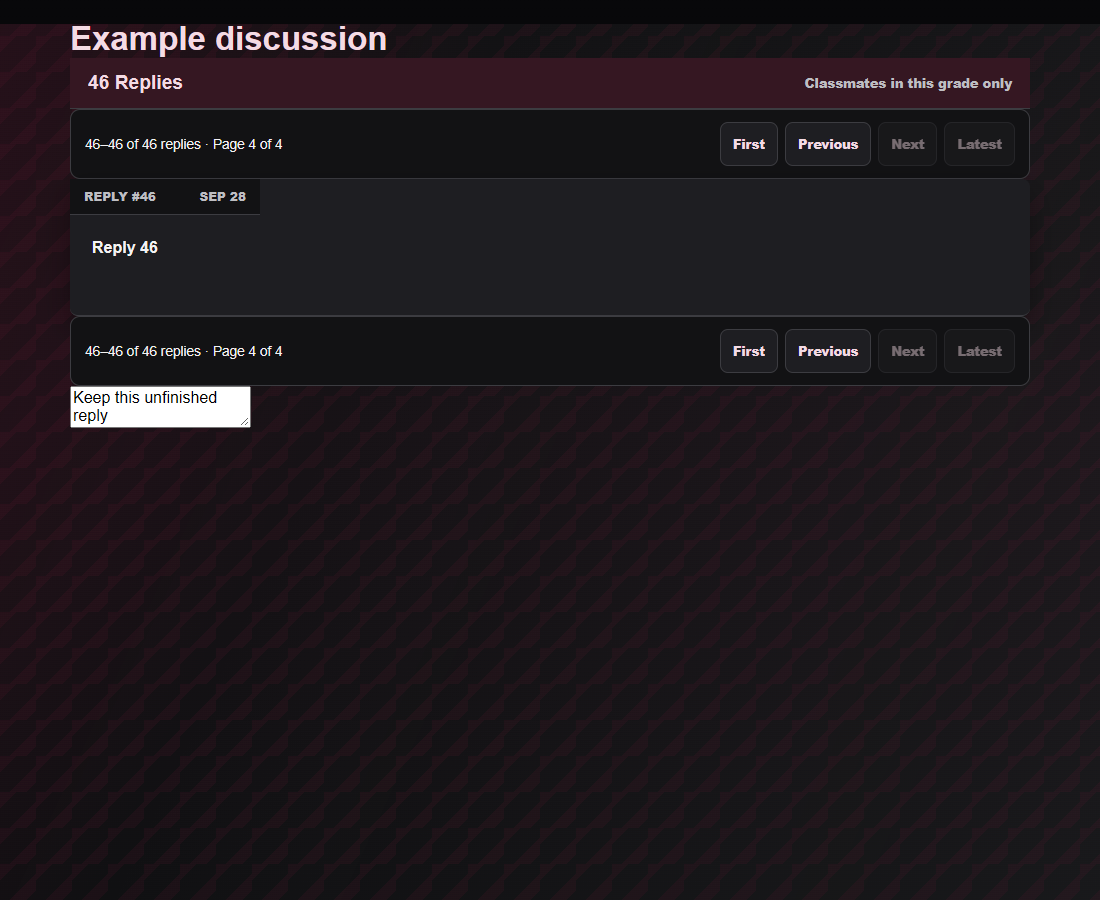
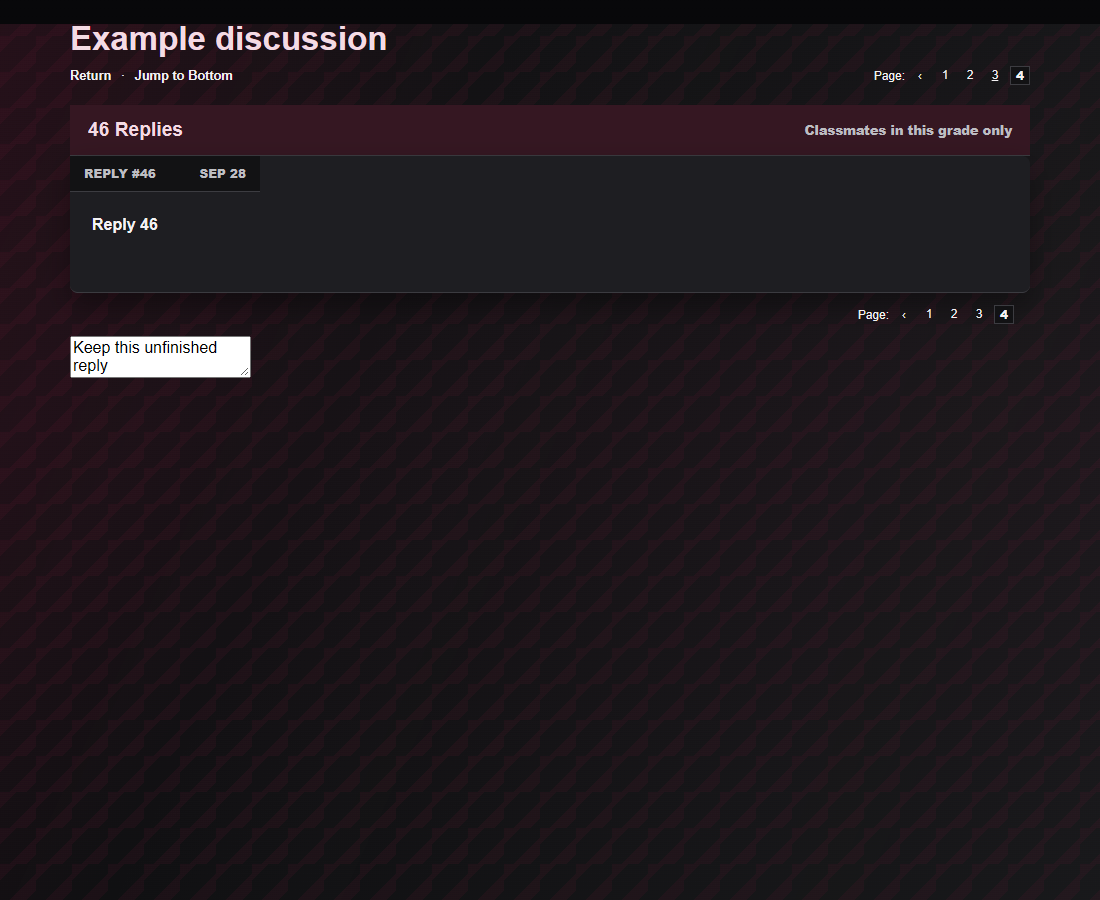
Make thread pagination compact and reposition top controls

diff --git a/app.js b/app.js
@@ -3158,10 +3158,22 @@ function threadReplyPageData(thread) {
   return { replies, pages, page, start, visible: replies.slice(start, start + THREAD_REPLIES_PER_PAGE) };
 }
 
+function renderThreadReplyPager(thread, location) {
+  const { pages, page } = threadReplyPageData(thread);
+  if (pages <= 1) return "";
+  const numbers = [...new Set([1, pages, ...Array.from({ length: 5 }, (_, i) => page - 2 + i).filter(n => n > 0 && n <= pages)])].sort((a, b) => a - b);
+  const button = (target, label, content) => `<button type="button" data-action="threadReplyPage" data-thread-id="${escapeHtml(thread.id)}" data-page="${target}" aria-label="${label}"${target === page ? ' aria-current="page"' : ""}>${content}</button>`;
+  return `<nav class="thread-reply-pages" aria-label="Reply pages ${location}"><span>Page:</span>${page > 1 ? button(page - 1, "Previous page", "‹") : ""}${numbers.map((n, i) => `${i && n > numbers[i - 1] + 1 ? '<span aria-hidden="true">…</span>' : ""}${button(n, `Page ${n}`, n)}`).join("")}${page < pages ? button(page + 1, "Next page", "›") : ""}</nav>`;
+}
+
+function refreshThreadReplyTopPager(thread) {
+  const top = document.querySelector(".thread-top-pages");
+  if (top) top.innerHTML = renderThreadReplyPager(thread, "top");
+}
+
 function renderThreadReplyList(thread) {
   const { replies, pages, page, start, visible } = threadReplyPageData(thread);
-  const pager = location => pages > 1 ? `<nav class="thread-reply-pages" aria-label="Reply pages ${location}"><span role="status">${start + 1}–${start + visible.length} of ${replies.length} replies · Page ${page} of ${pages}</span><div>${[[1,"First"],[page-1,"Previous"],[page+1,"Next"],[pages,"Latest"]].map(([target,label]) => `<button type="button" class="outline-btn" data-action="threadReplyPage" data-thread-id="${escapeHtml(thread.id)}" data-page="${target}" ${(label === "First" || label === "Previous" ? page === 1 : page === pages) ? "disabled" : ""}>${label}</button>`).join("")}</div></nav>` : "";
-  return `<div class="forum-reply-heading" tabindex="-1"><h3>${escapeHtml(`${replies.length} ${replies.length === 1 ? "Reply" : "Replies"}`)}</h3><span>Classmates in this grade only</span></div>${pager("top")}${visible.length ? visible.map((reply,index)=>renderThreadReply(reply,start+index+1)).join("") : emptyCard("No replies yet. Ask the first question or add a helpful response.")}${pager("bottom")}`;
+  return `<div class="forum-reply-heading" tabindex="-1"><h3>${escapeHtml(`${replies.length} ${replies.length === 1 ? "Reply" : "Replies"}`)}</h3><span>Classmates in this grade only</span></div>${visible.length ? visible.map((reply,index)=>renderThreadReply(reply,start+index+1)).join("") : emptyCard("No replies yet. Ask the first question or add a helpful response.")}${renderThreadReplyPager(thread, "bottom")}`;
 }
 
 function renderThreadDetail(threadId) {
@@ -3181,9 +3193,9 @@ function renderThreadDetail(threadId) {
   const replies = getThreadReplies(thread);
   return `
     ${pageHeader("Colt Corner", "", true)}
-    <nav class="thread-quick-links" aria-label="Thread navigation">
+    <div class="thread-navigation-row"><nav class="thread-quick-links" aria-label="Thread navigation">
       <button type="button" data-action="back">Return</button><span aria-hidden="true">·</span><button type="button" data-action="threadJumpBottom">Jump to Bottom</button>
-    </nav>
+    </nav><div class="thread-top-pages">${renderThreadReplyPager(thread, "top")}</div></div>
     <section class="thread-detail-card forum-thread-view">
       <div class="forum-thread-titlebar">
         <span>Grade ${escapeHtml(coltCornerAudienceGrade(thread) || authSession.grade || "—")} Discussion</span>
@@ -12752,6 +12764,7 @@ function attachReplyForm() {
       if (updated && list) {
         if (result?.moderationStatus === "approved") threadReplyPages.set(threadId, Math.max(1, Math.ceil(getThreadReplies(updated).length / THREAD_REPLIES_PER_PAGE)));
         list.innerHTML = renderThreadReplyList(updated);
+        refreshThreadReplyTopPager(updated);
         markVisibleColtCornerTopicsSeen();
         const count = document.querySelector(".forum-thread-titlebar strong");
         if (count) count.textContent = `${getThreadReplies(updated).length} ${getThreadReplies(updated).length === 1 ? "Reply" : "Replies"}`;
@@ -13545,6 +13558,7 @@ app.addEventListener("click", async event => {
       const list = document.querySelector(".thread-reply-list");
       if (list) {
         list.innerHTML = renderThreadReplyList(thread);
+        refreshThreadReplyTopPager(thread);
         markVisibleColtCornerTopicsSeen();
         const heading = list.querySelector(".forum-reply-heading");
         heading?.focus({ preventScroll:true });

diff --git a/work/verify-thread-reply-pages.js b/work/verify-thread-reply-pages.js
@@ -11,19 +11,29 @@ const fs=require("fs"),assert=require("assert/strict"),{chromium}=require("playw
  for(const width of [1100,390]){
  await page.setViewportSize({width,height:900});
  await page.evaluate(()=>{threadReplyPages.set("a",1);document.querySelector(".thread-reply-list").innerHTML=renderThreadReplyList(classThreads[0]);});
+ await page.evaluate(()=>{
+   if(!document.querySelector('.thread-top-pages')) document.querySelector('.thread-reply-list').insertAdjacentHTML('beforebegin','<div class="thread-navigation-row"><nav class="thread-quick-links"><button>Return</button> · <button>Jump to Bottom</button></nav><div class="thread-top-pages"></div></div>');
+   refreshThreadReplyTopPager(classThreads[0]);
+ });
+ assert.equal(await page.locator('.thread-reply-list nav[aria-label="Reply pages top"]').count(),0);
+ assert.equal(await page.locator('.thread-top-pages nav').count(),1);
  assert.equal(await page.locator(".thread-reply-post").count(),15);
  await page.locator("#replyMessage").fill("Keep this unfinished reply");
- await page.getByRole("button",{name:"Next",exact:true}).first().click();
+ await page.getByRole("button",{name:"Next page",exact:true}).first().click();
  assert.match(await page.locator(".thread-reply-post").first().innerText(),/Reply #16/i);
- await page.getByRole("button",{name:"Latest",exact:true}).first().click();assert.equal(await page.locator(".thread-reply-post").count(),1);
+ assert.equal(await page.locator('.thread-top-pages [aria-current="page"]').innerText(),'2');
+ assert.equal(await page.locator('.thread-reply-list [aria-current="page"]').innerText(),'2');
+ await page.getByRole("button",{name:"Page 4",exact:true}).first().click();assert.equal(await page.locator(".thread-reply-post").count(),1);
  assert.match(await page.locator(".thread-reply-post").innerText(),/Reply #46/i);
  assert.equal(await page.locator("#replyMessage").inputValue(),"Keep this unfinished reply");
  await page.screenshot({path:"work/thread-reply-pages-"+width+".png",fullPage:true});
  assert(await page.evaluate(()=>document.documentElement.scrollWidth<=innerWidth));
- await page.getByRole("button",{name:"Previous",exact:true}).last().click();assert.equal(await page.locator(".thread-reply-post").count(),15);
+ await page.getByRole("button",{name:"Previous page",exact:true}).last().click();assert.equal(await page.locator(".thread-reply-post").count(),15);
  }
  const counts=await page.evaluate(()=>[0,1,15,16,30,31].map(n=>{const t={id:"test",replies:Array.from({length:n},(_,i)=>({message:"test",id:String(i)}))};threadReplyPages.set("test",999);const d=threadReplyPageData(t);return [d.pages,d.visible.length];}));
  assert.deepEqual(counts,[[1,0],[1,1],[1,15],[2,1],[2,15],[3,1]]);
- console.log("Reply pages: 15/page, next/previous/first/latest, global numbering, preserved draft, boundary/deletion clamping and mobile overflow passed.");
+ const compact=await page.evaluate(()=>renderThreadReplyPager({id:'huge',replies:Array.from({length:15000},()=>({}))},'top'));
+ assert((compact.match(/<button/g)||[]).length<=8);
+ console.log("Reply pages: compact numbered top/bottom navigation, synchronized current page, 15/page, next/previous, global numbering, preserved draft, bounded controls, boundary/deletion clamping and mobile overflow passed.");
  }finally{await browser.close();}
 })().catch(e=>{console.error(e);process.exitCode=1});

diff --git a/styles.css b/styles.css
@@ -2383,10 +2383,15 @@ body[data-theme="night"] .corner-grade-bell svg { color:#fff; }
 .thread-quick-links button:hover { text-decoration:underline; }
 .thread-quick-links button:focus-visible { outline:2px solid var(--blue); outline-offset:4px; }
 
-.thread-reply-pages { display:flex; justify-content:space-between; align-items:center; flex-wrap:wrap; gap:12px; padding:12px 14px; background:var(--paper); color:var(--ink); border:1px solid var(--border); border-radius:10px; font-size:.85rem; }
-.thread-reply-pages > div { display:flex; flex-wrap:wrap; gap:7px; }
-.thread-reply-pages button { padding:7px 12px; font-size:.8rem; }
-.thread-reply-pages button:disabled { opacity:.45; cursor:default; }
+.thread-navigation-row { display:flex; justify-content:space-between; align-items:center; flex-wrap:wrap; gap:8px 20px; margin-bottom:12px; }
+.thread-navigation-row .thread-quick-links { margin:0; }
+.thread-top-pages { margin-left:auto; }
+.thread-reply-pages { display:flex; justify-content:flex-end; align-items:center; flex-wrap:wrap; gap:5px; padding:8px 0; color:var(--ink); font-size:.75rem; }
+.thread-reply-pages button { min-width:20px; padding:1px 3px; border:1px solid transparent; border-radius:0; background:none; color:var(--ink); font:inherit; line-height:1.25; cursor:pointer; }
+.thread-reply-pages button[aria-current="page"] { border-color:var(--border); background:var(--paper); font-weight:800; }
+.thread-reply-pages button:hover { text-decoration:underline; }
+.thread-reply-pages button:focus-visible { outline:2px solid var(--blue); outline-offset:2px; }
+.thread-reply-list > .thread-reply-pages { padding:12px 16px; }
 .forum-reply-heading { scroll-margin-top:20px; }
 
 .forum-rules-card {

diff --git a/index.html b/index.html
@@ -11,7 +11,7 @@
   <link rel="icon" type="image/png" sizes="16x16" href="/favicon-16x16.png?v=20260727-shield2">
   <link rel="apple-touch-icon" sizes="180x180" href="/apple-touch-icon.png?v=20260727-shield2">
   <link rel="manifest" href="/site.webmanifest?v=20260901-single-client-v1">
-  <link rel="stylesheet" href="styles.css?v=20260928-thread-navigation-v64">
+  <link rel="stylesheet" href="styles.css?v=20260928-subtle-pages-v65">
   <link rel="stylesheet" href="launchpad-scenes.css?v=20260927-pages-v45">
   <link rel="stylesheet" href="scene-frame-fit.css?v=20260927-patriotic-v4">
   <link rel="stylesheet" href="collectible-shelf.css?v=20260927-ten-shelves-v21">
@@ -26,7 +26,7 @@
   <script src="launchpad-scenes.js?v=20260927-patriotic-v45"></script>
   <script src="profile-banners.js?v=20260927-matching-sets-v9"></script>
 <script src="collectible-shelf.js?v=20260927-ten-shelves-v43"></script>
-  <script src="app.js?v=20260928-thread-navigation-v90"></script>
+  <script src="app.js?v=20260928-subtle-pages-v91"></script>
   <script src="colt-assistant.js?v=20260905-lazy-artwork-v2"></script>
   <script src="colt-radio.js?v=20260927-country-afropulse-v27"></script>
   <script src="launchpad-colt.js?v=20260908-bathing-panel-v9"></script>
